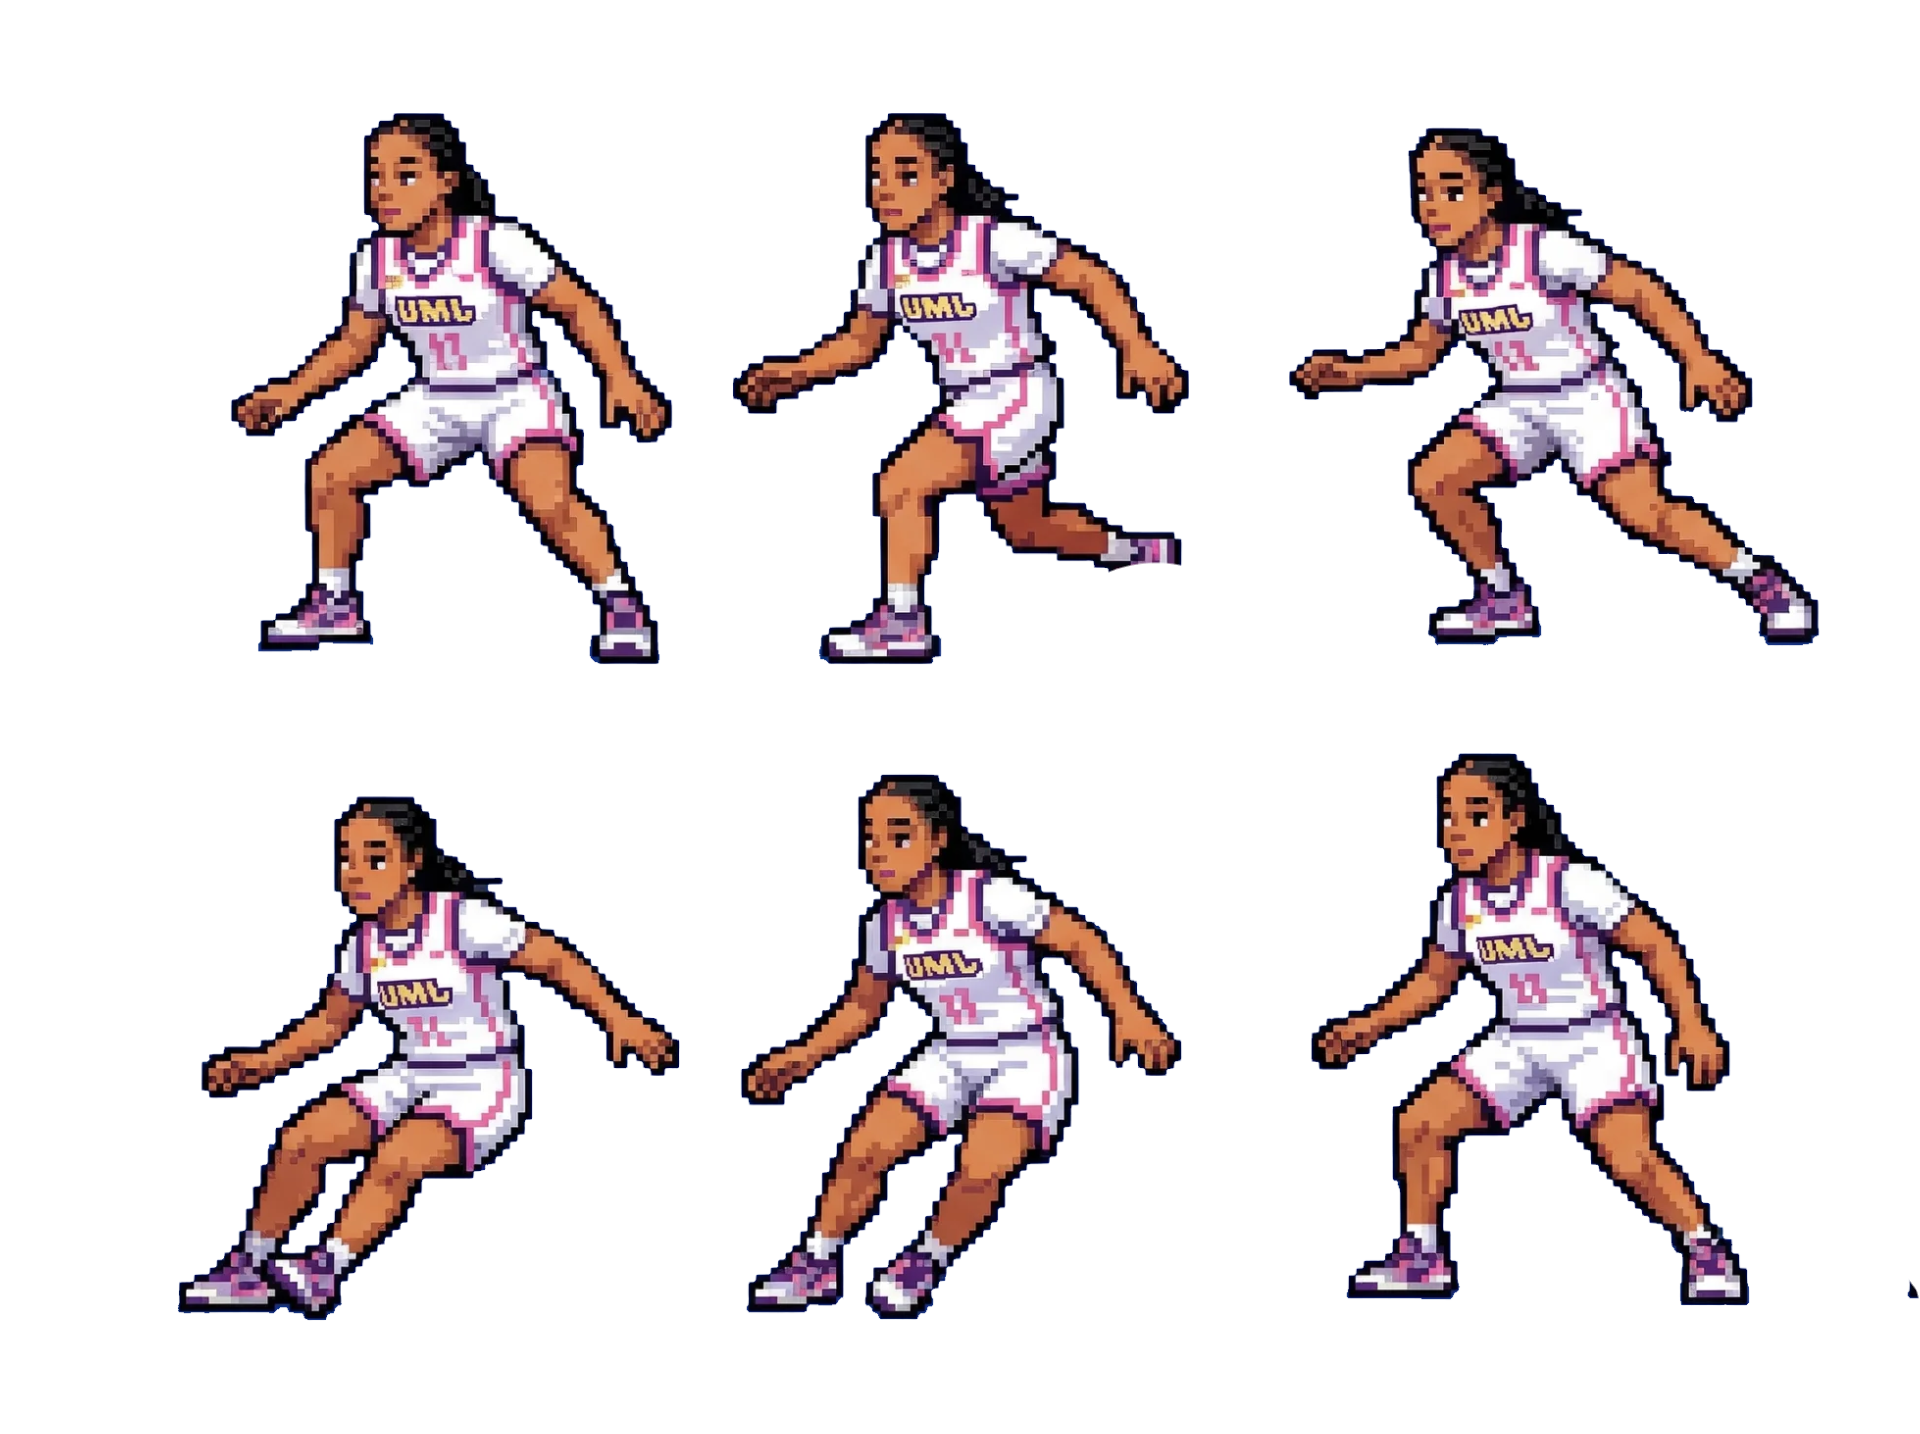
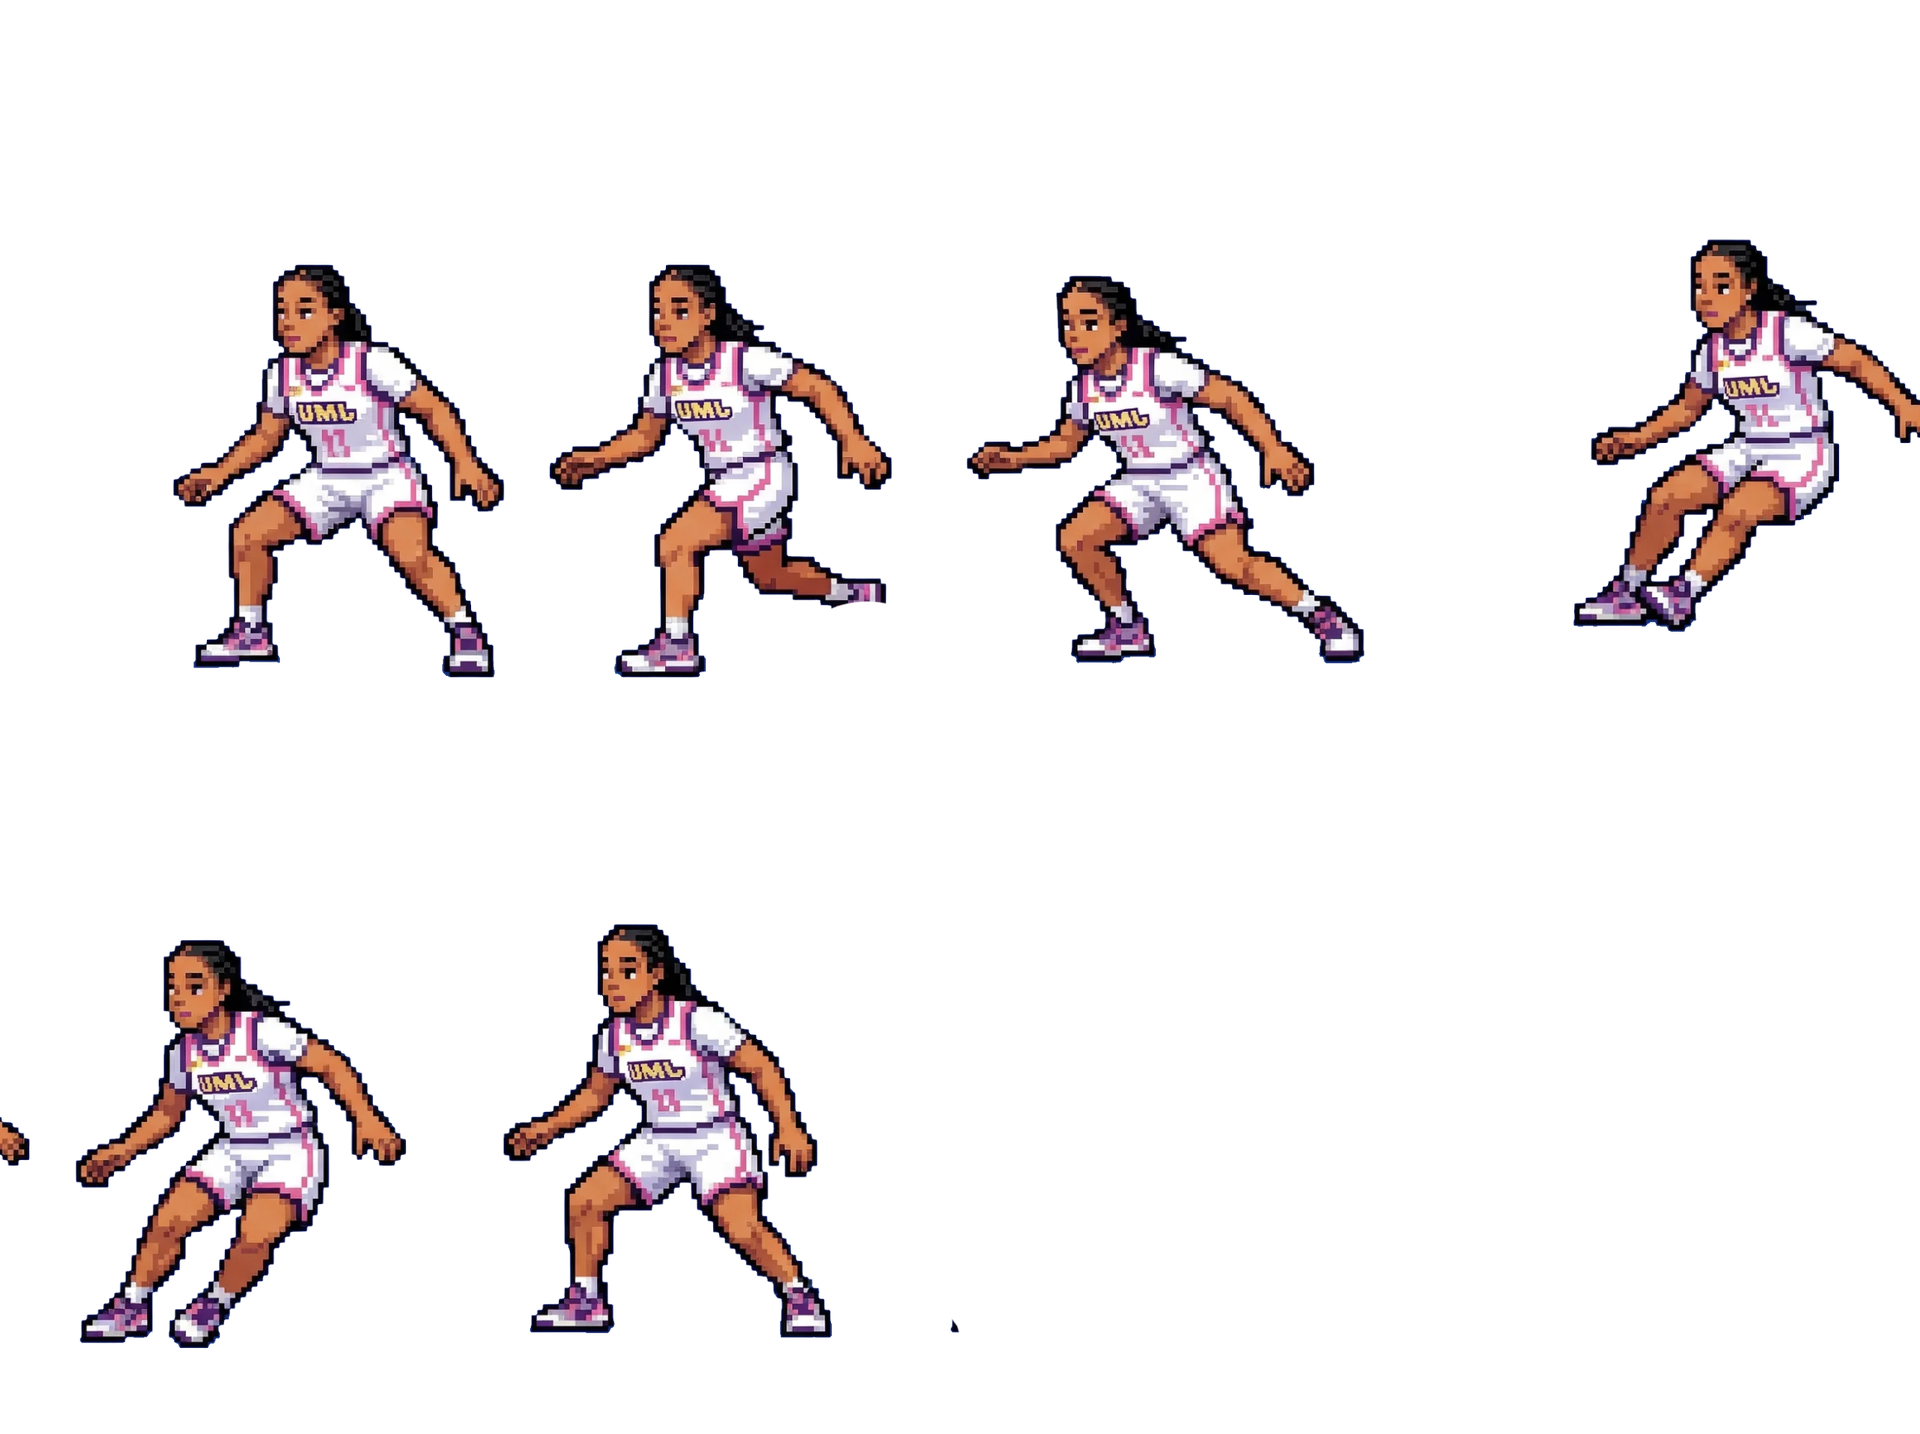
Normalize all sprite sheets to 480x717 frames matching running dribble
Reprocessed static-dribble, defensive-slide-left, and defensive-slide-right
from 640x717 to 480x717 frames (scaled 0.75x with foot alignment). This
eliminates the 42% character size jump between animations — all 480x717
sheets now use one unified ANIM_SCALE (0.197) and origin (0.5, 0.85).
Jumpshot gets its own calibrated scale (0.32) for the taller jumping pose.

Changed region(s): [[0.0938, 0.0614, 1.0, 0.4909], [0.0, 0.5216, 0.625, 0.9512], [0.6875, 0.5216, 0.9062, 0.9205]]

diff --git a/src/rendering/PlayerRenderer.ts b/src/rendering/PlayerRenderer.ts
@@ -4,19 +4,11 @@ import { PLAYER_RADIUS } from '../config/Constants';
 import { PLAYER_STATE } from '../simulation/PlayerStates';
 
 const SPRITE_SCALE = 0.055;
-// Running dribble frames are 480x717 → 480*0.197=95px wide, 717*0.197=141px tall
-const RUN_DRIBBLE_SCALE = 0.197;
-// Static dribble frames are 640x717 → 640*0.197=126px wide, 717*0.197=141px tall
-const IDLE_DRIBBLE_SCALE = 0.197;
-// Defensive slide frames are 640x717 → 640*0.197=126px wide, 717*0.197=141px tall
-const DEFENSE_SLIDE_SCALE = 0.197;
-// Jumpshot frames are 480x1150 (reprocessed to 4x2 grid). At 0.197: 95x227px.
-// Taller than dribble because character reaches up during shot — natural.
-const JUMPSHOT_SCALE = 0.197;
-// Stepback frames are 480x717 (art fits in top half of original 1434-tall sheet)
-const STEPBACK_SCALE = 0.197;
-// Target display height for name label on tall-frame anims (jumpshot)
-const STANDARD_DISPLAY_HEIGHT = 141;
+// All 480x717 animations use the same scale/origin as the running dribble (the gold standard)
+const ANIM_SCALE = 0.197;
+// Jumpshot frames are 480x1150 (character reaching up). Scale up so body width matches dribble.
+// Art is 240px wide; at 0.32 it displays at 77px (close to dribble's ~82px character width).
+const JUMPSHOT_SCALE = 0.32;
 
 export class PlayerRenderer {
   private graphics: Phaser.GameObjects.Graphics;
@@ -64,67 +56,68 @@ export class PlayerRenderer {
     this.shadow = scene.add.graphics().setDepth(5);
     this.graphics = scene.add.graphics().setDepth(10);
 
-    // Running dribble animation
+    // Running dribble animation (480x717 — the reference animation)
     if (dribbleAnimKey && scene.anims.exists(dribbleAnimKey)) {
       this.runDribbleKey = dribbleAnimKey;
       this.hasRunDribble = true;
       this.runDribbleSprite = scene.add.sprite(0, 0, dribbleAnimKey.replace('-anim', ''));
-      this.runDribbleSprite.setScale(RUN_DRIBBLE_SCALE);
+      this.runDribbleSprite.setScale(ANIM_SCALE);
       this.runDribbleSprite.setOrigin(0.5, 0.85);
       this.runDribbleSprite.setDepth(10);
       this.runDribbleSprite.setVisible(false);
     }
 
-    // Idle dribble animation
+    // Idle dribble animation (480x717 — reprocessed to match dribble frame size)
     if (idleDribbleAnimKey && scene.anims.exists(idleDribbleAnimKey)) {
       this.idleDribbleKey = idleDribbleAnimKey;
       this.hasIdleDribble = true;
       this.idleDribbleSprite = scene.add.sprite(0, 0, idleDribbleAnimKey.replace('-anim', ''));
-      this.idleDribbleSprite.setScale(IDLE_DRIBBLE_SCALE);
+      this.idleDribbleSprite.setScale(ANIM_SCALE);
       this.idleDribbleSprite.setOrigin(0.5, 0.85);
       this.idleDribbleSprite.setDepth(10);
       this.idleDribbleSprite.setVisible(false);
     }
 
-    // Defensive slide left
+    // Defensive slide left (480x717 — reprocessed to match dribble frame size)
     if (defensiveSlideLeftAnimKey && scene.anims.exists(defensiveSlideLeftAnimKey)) {
       this.defSlideLeftKey = defensiveSlideLeftAnimKey;
       this.hasDefSlideLeft = true;
       this.defSlideLeftSprite = scene.add.sprite(0, 0, defensiveSlideLeftAnimKey.replace('-anim', ''));
-      this.defSlideLeftSprite.setScale(DEFENSE_SLIDE_SCALE);
+      this.defSlideLeftSprite.setScale(ANIM_SCALE);
       this.defSlideLeftSprite.setOrigin(0.5, 0.85);
       this.defSlideLeftSprite.setDepth(10);
       this.defSlideLeftSprite.setVisible(false);
     }
 
-    // Defensive slide right
+    // Defensive slide right (480x717 — reprocessed to match dribble frame size)
     if (defensiveSlideRightAnimKey && scene.anims.exists(defensiveSlideRightAnimKey)) {
       this.defSlideRightKey = defensiveSlideRightAnimKey;
       this.hasDefSlideRight = true;
       this.defSlideRightSprite = scene.add.sprite(0, 0, defensiveSlideRightAnimKey.replace('-anim', ''));
-      this.defSlideRightSprite.setScale(DEFENSE_SLIDE_SCALE);
+      this.defSlideRightSprite.setScale(ANIM_SCALE);
       this.defSlideRightSprite.setOrigin(0.5, 0.85);
       this.defSlideRightSprite.setDepth(10);
       this.defSlideRightSprite.setVisible(false);
     }
 
-    // Jumpshot (480x1150 frames — feet at ~y=1135, origin at ~0.91 to match dribble foot offset)
+    // Jumpshot (480x1150 — taller frames for jumping pose, calibrated scale)
     if (jumpshotAnimKey && scene.anims.exists(jumpshotAnimKey)) {
       this.jumpshotKey = jumpshotAnimKey;
       this.hasJumpshot = true;
       this.jumpshotSprite = scene.add.sprite(0, 0, jumpshotAnimKey.replace('-anim', ''));
       this.jumpshotSprite.setScale(JUMPSHOT_SCALE);
-      this.jumpshotSprite.setOrigin(0.5, 0.91);
+      this.jumpshotSprite.setOrigin(0.5, 0.93);
+      this.jumpshotSprite.setOrigin(0.5, 0.93);
       this.jumpshotSprite.setDepth(10);
       this.jumpshotSprite.setVisible(false);
     }
 
-    // Stepback (480x717 frames — same grid as dribble now)
+    // Stepback (480x717 — same frame size as dribble)
     if (stepbackAnimKey && scene.anims.exists(stepbackAnimKey)) {
       this.stepbackKey = stepbackAnimKey;
       this.hasStepback = true;
       this.stepbackSprite = scene.add.sprite(0, 0, stepbackAnimKey.replace('-anim', ''));
-      this.stepbackSprite.setScale(STEPBACK_SCALE);
+      this.stepbackSprite.setScale(ANIM_SCALE);
       this.stepbackSprite.setOrigin(0.5, 0.85);
       this.stepbackSprite.setDepth(10);
       this.stepbackSprite.setVisible(false);
@@ -205,11 +198,12 @@ export class PlayerRenderer {
       this.jumpshotSprite.setPosition(p.position.x, p.position.y);
       this.jumpshotSprite.setFlipX(Math.cos(p.facingAngle) < 0);
       this.jumpshotSprite.setScale(JUMPSHOT_SCALE);
+      this.jumpshotSprite.setOrigin(0.5, 0.93);
       this.jumpshotSprite.setAlpha(1);
       if (!this.jumpshotSprite.anims.isPlaying || this.jumpshotSprite.anims.currentAnim?.key !== this.jumpshotKey) {
         this.jumpshotSprite.play(this.jumpshotKey);
       }
-      activeDisplayHeight = STANDARD_DISPLAY_HEIGHT;
+      activeDisplayHeight = this.jumpshotSprite.displayHeight;
 
     } else if (useStepback && this.stepbackSprite) {
       // Stepback animation
@@ -217,7 +211,7 @@ export class PlayerRenderer {
       this.stepbackSprite.setDepth(depthBase);
       this.stepbackSprite.setPosition(p.position.x, p.position.y);
       this.stepbackSprite.setFlipX(Math.cos(p.facingAngle) < 0);
-      this.stepbackSprite.setScale(STEPBACK_SCALE);
+      this.stepbackSprite.setScale(ANIM_SCALE);
       this.stepbackSprite.setAlpha(0.85);
       if (!this.stepbackSprite.anims.isPlaying || this.stepbackSprite.anims.currentAnim?.key !== this.stepbackKey) {
         this.stepbackSprite.play(this.stepbackKey);
@@ -229,7 +223,7 @@ export class PlayerRenderer {
       this.defSlideLeftSprite.setVisible(true);
       this.defSlideLeftSprite.setDepth(depthBase);
       this.defSlideLeftSprite.setPosition(p.position.x, p.position.y);
-      this.defSlideLeftSprite.setScale(DEFENSE_SLIDE_SCALE);
+      this.defSlideLeftSprite.setScale(ANIM_SCALE);
       this.defSlideLeftSprite.setAlpha(1);
       if (!this.defSlideLeftSprite.anims.isPlaying || this.defSlideLeftSprite.anims.currentAnim?.key !== this.defSlideLeftKey) {
         this.defSlideLeftSprite.play(this.defSlideLeftKey);
@@ -245,7 +239,7 @@ export class PlayerRenderer {
       this.defSlideRightSprite.setVisible(true);
       this.defSlideRightSprite.setDepth(depthBase);
       this.defSlideRightSprite.setPosition(p.position.x, p.position.y);
-      this.defSlideRightSprite.setScale(DEFENSE_SLIDE_SCALE);
+      this.defSlideRightSprite.setScale(ANIM_SCALE);
       this.defSlideRightSprite.setAlpha(1);
       if (!this.defSlideRightSprite.anims.isPlaying || this.defSlideRightSprite.anims.currentAnim?.key !== this.defSlideRightKey) {
         this.defSlideRightSprite.play(this.defSlideRightKey);
@@ -262,7 +256,7 @@ export class PlayerRenderer {
       this.runDribbleSprite.setDepth(depthBase);
       this.runDribbleSprite.setPosition(p.position.x, p.position.y);
       this.runDribbleSprite.setFlipX(Math.cos(p.facingAngle) < 0);
-      this.runDribbleSprite.setScale(RUN_DRIBBLE_SCALE);
+      this.runDribbleSprite.setScale(ANIM_SCALE);
       this.runDribbleSprite.setAlpha(1);
       if (!this.runDribbleSprite.anims.isPlaying || this.runDribbleSprite.anims.currentAnim?.key !== this.runDribbleKey) {
         this.runDribbleSprite.play(this.runDribbleKey);
@@ -275,7 +269,7 @@ export class PlayerRenderer {
       this.idleDribbleSprite.setDepth(depthBase);
       this.idleDribbleSprite.setPosition(p.position.x, p.position.y);
       this.idleDribbleSprite.setFlipX(Math.cos(p.facingAngle) < 0);
-      this.idleDribbleSprite.setScale(IDLE_DRIBBLE_SCALE);
+      this.idleDribbleSprite.setScale(ANIM_SCALE);
       this.idleDribbleSprite.setAlpha(1);
       if (!this.idleDribbleSprite.anims.isPlaying || this.idleDribbleSprite.anims.currentAnim?.key !== this.idleDribbleKey) {
         this.idleDribbleSprite.play(this.idleDribbleKey);

diff --git a/src/scenes/PreloadScene.ts b/src/scenes/PreloadScene.ts
@@ -59,15 +59,15 @@ export class PreloadScene extends Phaser.Scene {
       frameHeight: 1434,
     });
 
-    // Breezy defensive slide left: 3 cols x 2 rows = 6 frames, each 640x717
+    // Breezy defensive slide left: 4 cols x 2 rows grid, 6 usable frames, each 480x717
     this.load.spritesheet('breezy-defensive-slide-left', 'assets/images/breezy-defensive-slide-left.png', {
-      frameWidth: 640,
+      frameWidth: 480,
       frameHeight: 717,
     });
 
-    // Breezy defensive slide right: 3 cols x 2 rows = 6 frames, each 640x717
+    // Breezy defensive slide right: 4 cols x 2 rows grid, 6 usable frames, each 480x717
     this.load.spritesheet('breezy-defensive-slide-right', 'assets/images/breezy-defensive-slide-right.png', {
-      frameWidth: 640,
+      frameWidth: 480,
       frameHeight: 717,
     });
 
@@ -83,9 +83,9 @@ export class PreloadScene extends Phaser.Scene {
       frameHeight: 717,
     });
 
-    // Breezy static dribble: 3 cols x 2 rows = 6 frames, each 640x717
+    // Breezy static dribble: 4 cols x 2 rows grid, 6 usable frames, each 480x717
     this.load.spritesheet('breezy-static-dribble', 'assets/images/breezy-static-dribble.png', {
-      frameWidth: 640,
+      frameWidth: 480,
       frameHeight: 717,
     });
   }
